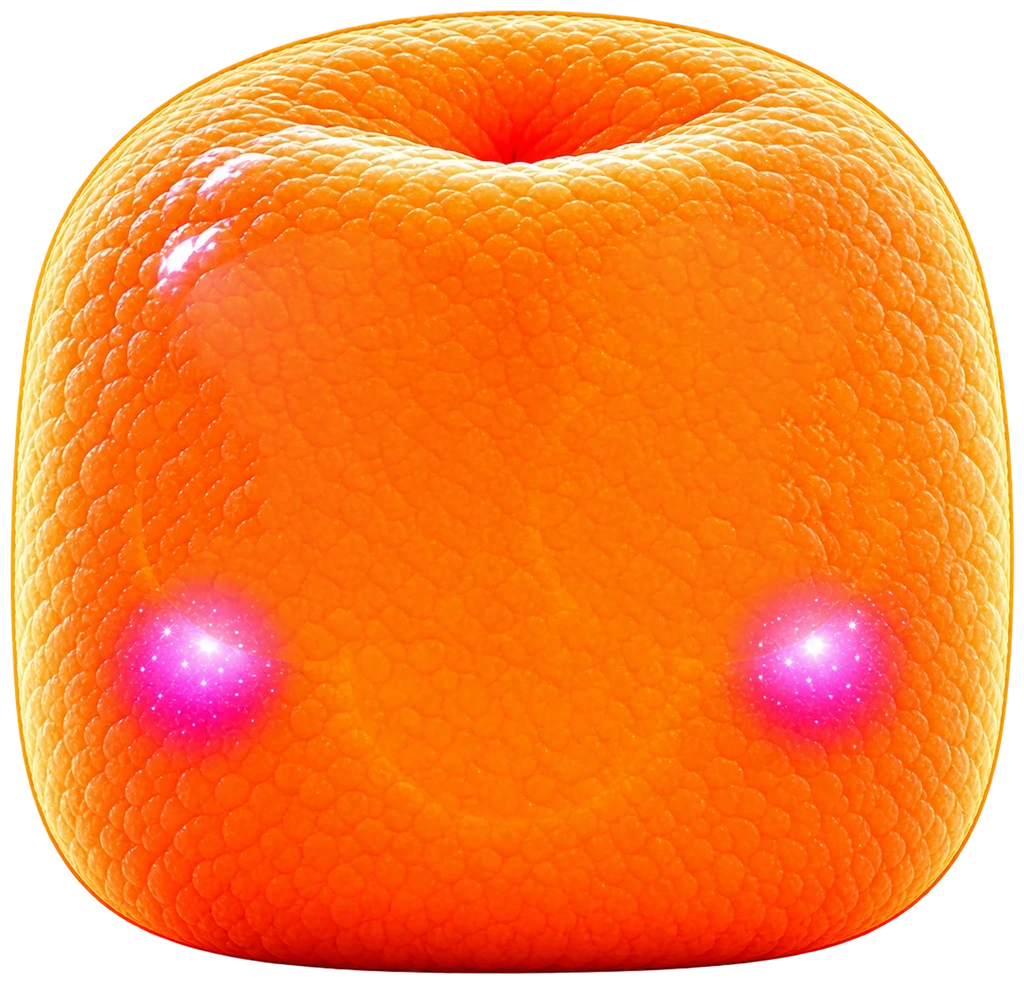
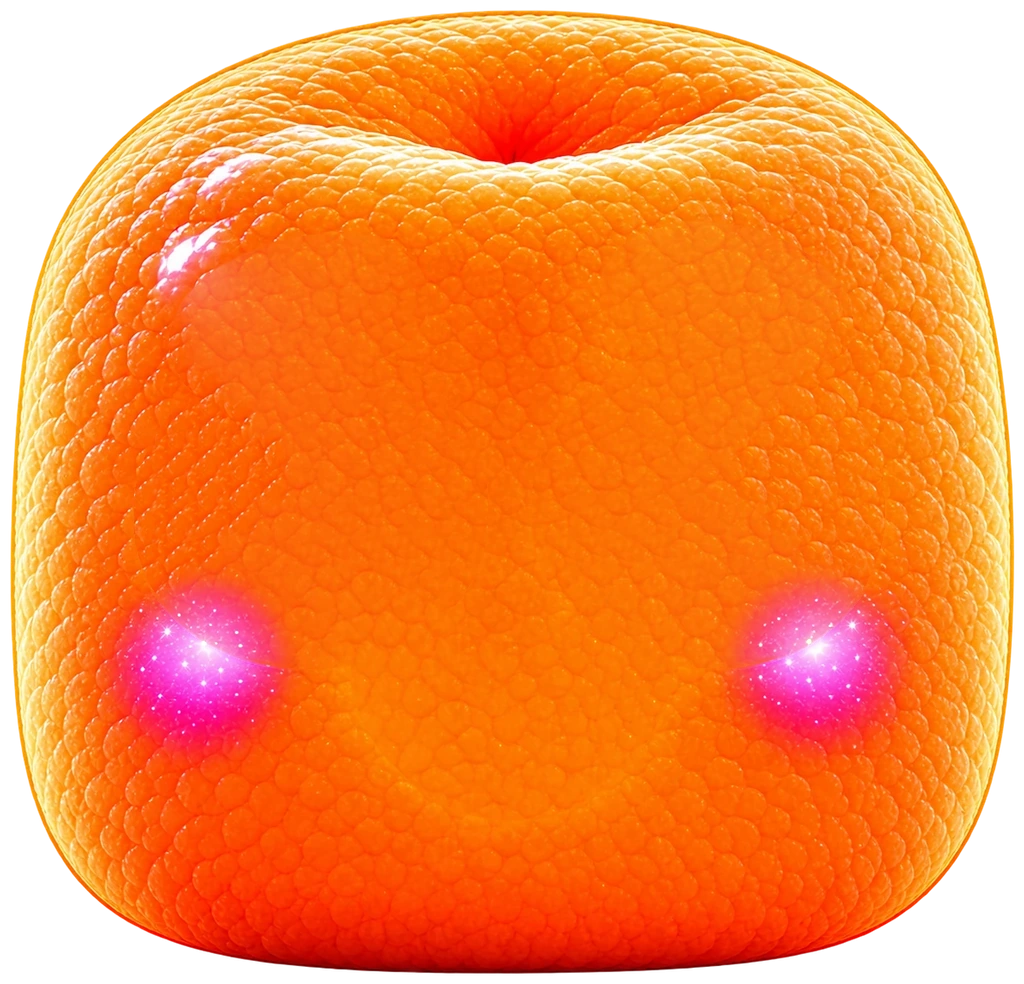
Hushfold build: save work in progress
Claude-Session: https://claude.ai/code/session_01PTMVzk87fyReNC1jbKp1HZ

diff --git a/hushmallow/src/hushfold/charm.js b/hushmallow/src/hushfold/charm.js
@@ -7,16 +7,22 @@
 // the live parts (breathing inner light, a slow glint sweep, twinkling
 // sparkles) are cheap draws on top, so nothing big is allocated per frame.
 //
-//   drawCharm(g, { skillId, mallow, x, y, size, t, alpha, glint, sparkle, dpr })
+//   drawCharm(g, { skillId, mallow, x, y, size, res, t, alpha, glint, sparkle, dpr })
 //   charmSprite(skillId, mallow, size, dpr) → canvas (cached; size = charm diameter, CSS px)
 //   charmCanvas({ skillId, mallow, box, animate, reducedMotion }) → { el, draw(t), destroy() }
 //   charmPalette(skillId, mallow) → colours
 //
 // `size` is the charm's body diameter; sprites are CHARM_PAD × larger so the
-// halo and the prism's beams have room. Readable from 40 to 220 px.
+// halo and the prism's beams have room. Readable from 40 to 220 px. A charm
+// whose size animates (the installation, a plant's bob) passes `res`, its
+// largest size: one sprite is painted at that size and scaled with drawImage,
+// so an animation never rasterises a new sprite per frame. Sparkles and
+// glints are cached sprites too (no gradient is built per frame). Live charm
+// canvases share the Mallow loop (rig.js addTicker): one requestAnimationFrame.
 
 import { getSkill, CHARM_FAMILIES } from './skills.js';
 import { MALLOWS } from '../mallows/registry.js';
+import { addTicker, removeTicker } from '../mallows/rig.js';
 
 export const CHARM_PAD = 1.6;
 
@@ -68,6 +74,7 @@ function paletteFor(skillId, mallow) {
     rim,
     glow: mix(rim, mc.glow, 0.5),
     accent: mc.accent,
+    sparkle: mix(rim, WHITE, 0.4),
     seed: hash01(String(skillId || 'charm')),
   };
 }
@@ -625,6 +632,20 @@ function liveKit(g) {
   LIVE.set(g, k);
   return k;
 }
+/** A four-point glint (soft core + thin rays) as a cached 64 px sprite, per colour. */
+const STARS = new Map();
+function starSprite(c) {
+  const key = c.join(',');
+  let s = STARS.get(key);
+  if (s) return s;
+  s = mkCanvas(64, 64);
+  const g = s.getContext('2d');
+  g.translate(32, 32); g.scale(31, 31);
+  star4(g, 0, 0, 1, 1, c);
+  if (STARS.size > 48) STARS.clear();
+  STARS.set(key, s);
+  return s;
+}
 const CORE_GLOW = new Map();
 function coreGlow(c) {
   const key = c.join(',');
@@ -643,9 +664,9 @@ function coreGlow(c) {
  * units). t: seconds (breathing light, sparkles); glint: 0..1 sweep progress
  * or null; alpha; scale-free rotation `rot`; sparkle: twinkles around it.
  */
-export function drawCharm(g, { skillId, mallow, x = 0, y = 0, size = 96, t = 0, alpha = 1, glint = null, sparkle = true, rot = 0, dpr = 1, breathe = true } = {}) {
+export function drawCharm(g, { skillId, mallow, x = 0, y = 0, size = 96, res = 0, t = 0, alpha = 1, glint = null, sparkle = true, rot = 0, dpr = 1, breathe = true } = {}) {
   if (alpha <= 0.002 || size < 2) return;
-  const sprite = charmSprite(skillId, mallow, size, dpr);
+  const sprite = charmSprite(skillId, mallow, Math.max(size, res || 0), dpr);
   const side = size * CHARM_PAD;
   const P = charmPalette(skillId, mallow);
   g.save();
@@ -681,12 +702,19 @@ export function drawCharm(g, { skillId, mallow, x = 0, y = 0, size = 96, t = 0, 
   }
   if (sparkle) {
     g.globalCompositeOperation = 'lighter';
+    const stars = starSprite(P.sparkle);
     for (let i = 0; i < 3; i++) {
       const a = P.seed * 6.28 + i * 2.2;
       const rr = R * (1.12 + 0.14 * ((i * 0.37 + P.seed) % 1));
       const tw = Math.max(0, Math.sin((t * Math.PI * 2) / (2.1 + i * 0.7) + i * 1.7 + P.seed * 9));
       const k = Math.min(1, Math.max(0.55, (R - 14) / 40));
-      star4(g, Math.cos(a) * rr, Math.sin(a) * rr * 0.92, R * (0.08 + 0.025 * i) * k, tw * tw * 0.85, mix(P.rim, WHITE, 0.4));
+      const a2 = tw * tw * 0.85;
+      if (a2 <= 0.002) continue;
+      const sr = R * (0.08 + 0.025 * i) * k;
+      const prev = g.globalAlpha;
+      g.globalAlpha = prev * a2;
+      g.drawImage(stars, Math.cos(a) * rr - sr, Math.sin(a) * rr * 0.92 - sr, sr * 2, sr * 2);
+      g.globalAlpha = prev;
     }
     g.globalCompositeOperation = 'source-over';
   }
@@ -694,18 +722,21 @@ export function drawCharm(g, { skillId, mallow, x = 0, y = 0, size = 96, t = 0, 
 }
 
 // ------------------------------------------------------------- live DOM --
-// One shared ticker for every live charm canvas on the page.
+// Every live charm canvas on the page draws from one ticker in the shared
+// Mallow loop (rig.js), which runs only while something is live.
 const LIVE_SET = new Set();
-let raf = 0;
-function tick(now) {
-  raf = 0;
-  if (typeof document !== 'undefined' && document.hidden) { raf = requestAnimationFrame(tick); return; }
+let ticking = false;
+function tick(dt, seconds) {
   for (const c of LIVE_SET) {
     if (!c.el.isConnected) { if (++c.gone > 120) LIVE_SET.delete(c); continue; }
     c.gone = 0;
-    c.draw(now / 1000);
+    c.draw(seconds);
   }
-  if (LIVE_SET.size) raf = requestAnimationFrame(tick);
+  if (!LIVE_SET.size) { removeTicker(tick); ticking = false; }
+}
+function goLive(handle) {
+  LIVE_SET.add(handle);
+  if (!ticking) { ticking = true; addTicker(tick); }
 }
 
 /**
@@ -737,9 +768,9 @@ export function charmCanvas({ skillId, mallow, box = 96, animate = true, reduced
       const dy = still || !bob ? 0 : Math.sin(tt * 1.1) * size * 0.025;
       drawCharm(g, { skillId, mallow, x: box / 2, y: box / 2 + dy, size, t: still ? 1.3 : tt, glint, sparkle: true, dpr, breathe: !still });
     },
-    destroy() { LIVE_SET.delete(handle); },
+    destroy() { LIVE_SET.delete(handle); if (!LIVE_SET.size && ticking) { removeTicker(tick); ticking = false; } },
   };
   if (reducedMotion || !animate) handle.draw(0);
-  else { LIVE_SET.add(handle); if (!raf && typeof requestAnimationFrame === 'function') raf = requestAnimationFrame(tick); handle.draw(performance.now() / 1000); }
+  else { goLive(handle); handle.draw(performance.now() / 1000); }
   return handle;
 }

diff --git a/hushmallow/src/hushfold/subtitles.js b/hushmallow/src/hushfold/subtitles.js
@@ -88,7 +88,7 @@ export const SCRIM_MIN = 0.5, SCRIM_MAX = 0.88;
  * backdrop pixel [r,g,b] (the browser blends in sRGB). `cover` is how much of
  * the scrim reaches the edge of the glyphs (its feathered rim). Pure; tested.
  */
-export function scrimFor([r, g, b], { target = 4.8, cover = 0.86 } = {}) {
+export function scrimFor([r, g, b], { target = 5.2, cover = 0.86 } = {}) {
   const text = luminance(251, 248, 255);
   for (let a = SCRIM_MIN; a <= SCRIM_MAX + 1e-9; a += 0.02) {
     const k = a * cover;
@@ -204,6 +204,16 @@ export function createSubtitles({ root, prefs, avoid = () => [], bounds = null, 
   /** Deepen the scrim over a bright backdrop (once per line; cheap: one 48×12 sample). */
   function adaptScrim(node) {
     if (!node) return;
+    // shrink-wrap the block to its longest line, so the scrim hugs the words (not the screen's width)
+    try {
+      const p = node.querySelector('.text');
+      node.style.width = '';
+      const rng = document.createRange();
+      rng.selectNodeContents(p);
+      let w = 0;
+      for (const r of rng.getClientRects()) w = Math.max(w, r.width);
+      if (w > 0) node.style.width = `${Math.ceil(w + 4)}px`;
+    } catch { /* keep the natural width */ }
     let a = brightHint() ? 0.8 : SCRIM_MIN;
     const data = backdrop ? sampleBackdrop(node.getBoundingClientRect(), backdrop()) : null;
     if (data) a = scrimFor(brightPixel(data));

diff --git a/hushmallow/src/engine/garden.js b/hushmallow/src/engine/garden.js
@@ -51,7 +51,9 @@ function write(store, g) {
  * Keep a tool. Call it only from the person's explicit "Keep this" tap.
  * Saving one that is already there keeps its first save (and its first
  * Mallow, so the charm never changes) and counts as practising it again.
- * Returns the entry ({ id, …, isNew }) or null when the id is not valid.
+ * Returns the entry ({ id, …, isNew, stored }) or null when the id is not
+ * valid. `stored` is false when the device refused the write (private mode,
+ * storage full): callers must not tell the person it was saved.
  */
 export function saveSkill(store, { id, fromWorld = null, mallow = null } = {}, now = Date.now()) {
   if (!isId(id)) return null;
@@ -62,8 +64,8 @@ export function saveSkill(store, { id, fromWorld = null, mallow = null } = {}, n
     ? { ...had, lastPractised: now, practised: had.practised + 1, fromWorld: had.fromWorld || (isId(fromWorld) ? fromWorld : null), mallow: had.mallow || (isId(mallow) ? mallow : null) }
     : { savedAt: now, lastPractised: null, practised: 0, fromWorld: isId(fromWorld) ? fromWorld : null, mallow: isId(mallow) ? mallow : null };
   g.skills[id] = entry;
-  write(store, g);
-  return { id, ...entry, isNew: !had };
+  const stored = write(store, g);
+  return { id, ...entry, isNew: !had, stored };
 }
 
 /** Every kept tool, oldest first: [{ id, savedAt, lastPractised, practised, fromWorld, mallow }]. */

diff --git a/hushmallow/tools/hires/data/hires-nofit.js b/hushmallow/tools/hires/data/hires-nofit.js
@@ -12,7 +12,7 @@
 //   * draw sprite pixels / res (Zuzu's spirals),
 //   * read m.glitchRows (Glitzi) instead of GLITCH_ROWS,
 //   * allow skin q up to 1.25 * res.
-// (see W7's report for the exact patch). Without it the art draws 2.6x too big.
+// (tools/hires/rig-res.patch). Without it the art draws 2.6x too big.
 //
 // Decision D13: a Mallow switches to its high-res rig only after a visual
 // check. HIRES_VERIFIED lists the ones that passed; applyHires() applies those
@@ -23,7 +23,10 @@
 //
 // Integration (after rig.js supports res): in registry.js, once, at the end:
 //   import { applyHires } from './hires.js';  applyHires(MALLOWS, SPRITES);
-// and ship assets/mallows-hires + assets/rig-hires in tools/build-site.sh.
+// ship assets/mallows-hires + assets/rig-hires in tools/build-site.sh, and
+// let MallowTouch use skinSize ~1024 for a high-res Mallow (its 640 default
+// downsamples the 1024 px art and gives up most of the gain on 3x phones).
+// Pipeline, labs and checks: tools/hires/README.md.
 
 const A = (p) => new URL(`../../../assets/${p}`, import.meta.url).href;
 const T = {

diff --git a/hushmallow/src/mallows/hires.js b/hushmallow/src/mallows/hires.js
@@ -12,7 +12,7 @@
 //   * draw sprite pixels / res (Zuzu's spirals),
 //   * read m.glitchRows (Glitzi) instead of GLITCH_ROWS,
 //   * allow skin q up to 1.25 * res.
-// (see W7's report for the exact patch). Without it the art draws 2.6x too big.
+// (tools/hires/rig-res.patch). Without it the art draws 2.6x too big.
 //
 // Decision D13: a Mallow switches to its high-res rig only after a visual
 // check. HIRES_VERIFIED lists the ones that passed; applyHires() applies those
@@ -23,7 +23,10 @@
 //
 // Integration (after rig.js supports res): in registry.js, once, at the end:
 //   import { applyHires } from './hires.js';  applyHires(MALLOWS, SPRITES);
-// and ship assets/mallows-hires + assets/rig-hires in tools/build-site.sh.
+// ship assets/mallows-hires + assets/rig-hires in tools/build-site.sh, and
+// let MallowTouch use skinSize ~1024 for a high-res Mallow (its 640 default
+// downsamples the 1024 px art and gives up most of the gain on 3x phones).
+// Pipeline, labs and checks: tools/hires/README.md.
 
 const A = (p) => new URL(`../../assets/${p}`, import.meta.url).href;
 const T = {

diff --git a/hushmallow/src/app/scenes/hushfold.js b/hushmallow/src/app/scenes/hushfold.js
@@ -145,6 +145,8 @@ export default function hushfold(app, params = {}) {
       minB = 96;
     }
     const regionH = Math.max(minB + 8, regionBottom - regionTop);
+    // a short strip above the sheet: the thought's word tag would sit on the Mallow, so it waits
+    root.classList.toggle('hf-tags-away', panelSheet() && regionBottom - regionTop < 220);
     const thought = !worldMode && (stage?.thoughts.list.length || 0) > 0;
     let B = Math.min(vw * 0.66, regionH * (ov?.height || panelSheet() ? 0.86 : 0.7), 360);
     if (thought && vw < 700) B *= 0.84;
@@ -408,7 +410,8 @@ export default function hushfold(app, params = {}) {
     const wait = Math.max(2600, S.firstTouchAt + 5500 - now());
     inviteT = later(function tryInvite() {
       if (!canInvite()) return;
-      if (subtitles.busy || panel?.isOpen || router?.active) { inviteT = later(tryInvite, 1600); return; }
+      // (a finger still on the Mallow is fine: the brief's invitation arrives mid-squeeze)
+      if (subtitles.busy || panel?.isOpen) { inviteT = later(tryInvite, 1600); return; }
       invite();
     }, wait);
   }

diff --git a/hushmallow/src/ui/hushfold.css b/hushmallow/src/ui/hushfold.css
@@ -274,6 +274,7 @@ body.hf-world-leaving #world > canvas.hf-back, body.hf-world-leaving #fx-layer >
 .hf-touch { position: fixed; inset: 0; z-index: 1; pointer-events: none; }
 
 /* ------------------------------------------------- Thought placeholder -- */
+.hushfold.hf-tags-away .hf-tag { opacity: 0 !important; pointer-events: none !important; }
 .hf-tag { position: fixed; z-index: 1; left: 0; top: 0; max-width: min(50vw, 230px); padding: 7px 13px; border-radius: 14px; border: 1px solid rgba(255, 255, 255, 0.16);
   background: rgba(16, 12, 40, 0.66); backdrop-filter: blur(12px); -webkit-backdrop-filter: blur(12px); color: #fbf8ff; font: var(--hf-font-thought);
   font-size: max(15px, calc(17px * var(--hf-k))); text-align: center; cursor: pointer; overflow-wrap: anywhere; will-change: transform; transition: opacity 400ms;

diff --git a/hushmallow/tools/hires/derive.py b/hushmallow/tools/hires/derive.py
@@ -79,7 +79,7 @@ def erase_mask(name, meas, masks, shape, img=None):
             # blush is rebuilt by restore_cheeks (its own radial profile and
             # glitter), and the shading fill never takes its colour from the
             # blush (blush_discs -> inpaint lf_exclude)
-            m |= dil(masks['eye' + s], 12 * u)
+            m |= dil(masks['eye' + s], 15 * u)   # 12u left a sliver of the socket's light rim
         elif style == 'spiral':
             sp = f['spiral' + s]
             c = np.zeros(shape, np.uint8)
@@ -309,7 +309,10 @@ def inpaint(name, img, mask, unit, protect=None, lf_exclude=None):
         # lines and sparkles out of it, they belong to the copied texture
         neon = (hsv[..., 2] > 150) & ((hsv[..., 1] > 110) | (hsv[..., 2] > 220))
         known &= ~dil(neon, 2.5 * unit)
-    s_lo = (6.0 if glitzi else 9.0) * unit
+    # the shading layer: fine enough that the body's bumps (~10u across)
+    # belong to the copied texture, or the filled sockets read flatter than
+    # the skin around them (a faint ghost ring whenever the eyes close)
+    s_lo = (6.0 if glitzi else 5.0) * unit
     lf_known, den = norm_blur(rgb, known.astype(np.float64), s_lo)
     unknown = grow | (den < 0.05)
     lf_known[~(al > 0.02)] = 0
